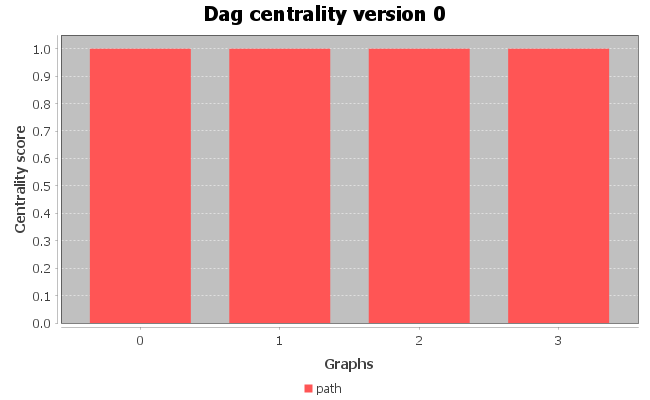
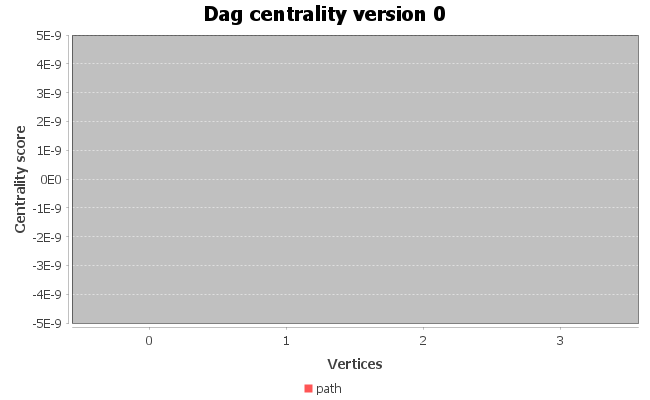
Update PageRank centrality measure

diff --git a/src/main/java/no/uib/mayarobbestad/dagcentrality/algorithms/DAGPageRankCentrality.java b/src/main/java/no/uib/mayarobbestad/dagcentrality/algorithms/DAGPageRankCentrality.java
@@ -15,13 +15,20 @@ import org.jgrapht.graph.SimpleDirectedGraph;
 
 public class DAGPageRankCentrality<V, E> implements VertexScoringAlgorithm<V, Double> {
 
+    private static final int MAX_ITERATIONS_DEFAULT = 100;
+
     private Graph<V, E> graph;
     private Map<V, Double> scores;
-    int ITERATIONS = 5;
+    private int maxIterations;
 
     public DAGPageRankCentrality(Graph<V, E> graph) {
+        this(graph, MAX_ITERATIONS_DEFAULT);
+    }
+
+    public DAGPageRankCentrality(Graph<V, E> graph, int maxIterations) {
         this.graph = graph;
         this.scores = new HashMap<>();
+        this.maxIterations = maxIterations;
         run();
     }
 
@@ -77,7 +84,8 @@ public class DAGPageRankCentrality<V, E> implements VertexScoringAlgorithm<V, Do
         }
 
         // number of iterations in PageRank
-        for (int i = 0; i < ITERATIONS; i++) {
+        for (int i = 0; i < maxIterations; i++) {
+            System.out.println("iteration: " + i);
             // forward
             while (!toDistribute.isEmpty()) {
                 V v = toDistribute.poll();
@@ -108,28 +116,37 @@ public class DAGPageRankCentrality<V, E> implements VertexScoringAlgorithm<V, Do
                         }
                     }
                 }
-
             }
 
             scores.putAll(weights);
 
             // prep for the next iteration
-            if (i + 1 < ITERATIONS) {
-                // reset weights
+            if (i + 1 < maxIterations) {
+                System.out.println("prep next iteration:" + i);
+                // reset and copy weights
+                HashMap<V, Double> weightsCopy = new HashMap<>();
                 for (V v : weights.keySet()) {
+                    weightsCopy.put(v, weights.get(v));
                     weights.put(v, 0.0);
+
                 }
                 // backwards
                 for (V v : sinks) {
                     Integer numSources = sourceAncestors.get(v).size();
-                    // Double weight = weights.get(v) ;
+
+                    // not normalized
+                    // Double weight = weightsCopy.get(v);
+
+                    // normalized
                     Double weight = 1.0;
+
                     for (V source : sourceAncestors.get(v)) {
                         Double temp = weights.get(source);
                         weights.put(source, temp + weight / numSources); // normalize
                     }
                 }
             }
+
             toDistribute.addAll(sources);
         }
     }

diff --git a/src/main/java/no/uib/mayarobbestad/dagcentrality/Main.java b/src/main/java/no/uib/mayarobbestad/dagcentrality/Main.java
@@ -51,7 +51,7 @@ public class Main {
     static final boolean KATZ = false;
     static final boolean PAGERANK = false;
     static final boolean DAGPAGERANK = true;
-    static final boolean DAGBETWEENNESS = true;
+    static final boolean DAGBETWEENNESS = false;
 
     static int numAlgorithms = 0;
 
@@ -105,7 +105,7 @@ public class Main {
             dataset.addValue(score, graphName, vertex);
         }
 
-        JFreeChart barChart = ChartFactory.createBarChart(algorithmName, "Graphs", "Centrality score",
+        JFreeChart barChart = ChartFactory.createBarChart(algorithmName, "Vertices", "Centrality score",
                 dataset, PlotOrientation.VERTICAL, true, true, false);
         // TODO: change this to safe the results into seperate folders, instead of
         // everything in one folder
@@ -297,12 +297,15 @@ public class Main {
         }
 
         if (DAGPAGERANK) {
+
+            int iterations = 2;
+
             writer.write("Dag centrality version 0\n");
             for (int i = 0; i < numGraphs; i++) {
                 writer.write(graphDirectory.get(i) + " = [");
                 // TODO: bad practice fix this
                 VertexScoringAlgorithm<Integer, Double> centralityAlgorithm = new DAGPageRankCentrality<>(
-                        graphs.get(i));
+                        graphs.get(i), iterations);
                 StringBuilder builder = new StringBuilder();
                 for (Integer v : graphs.get(i).vertexSet()) {
                     builder.append(v + ":" + centralityAlgorithm.getVertexScore(v) + ",");
